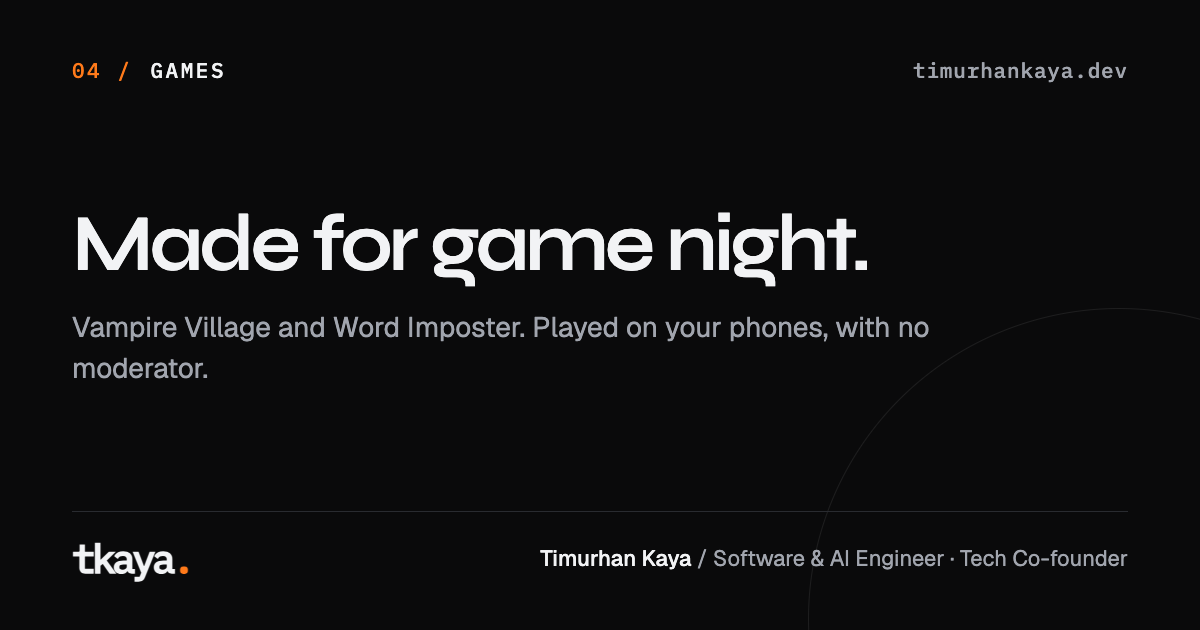
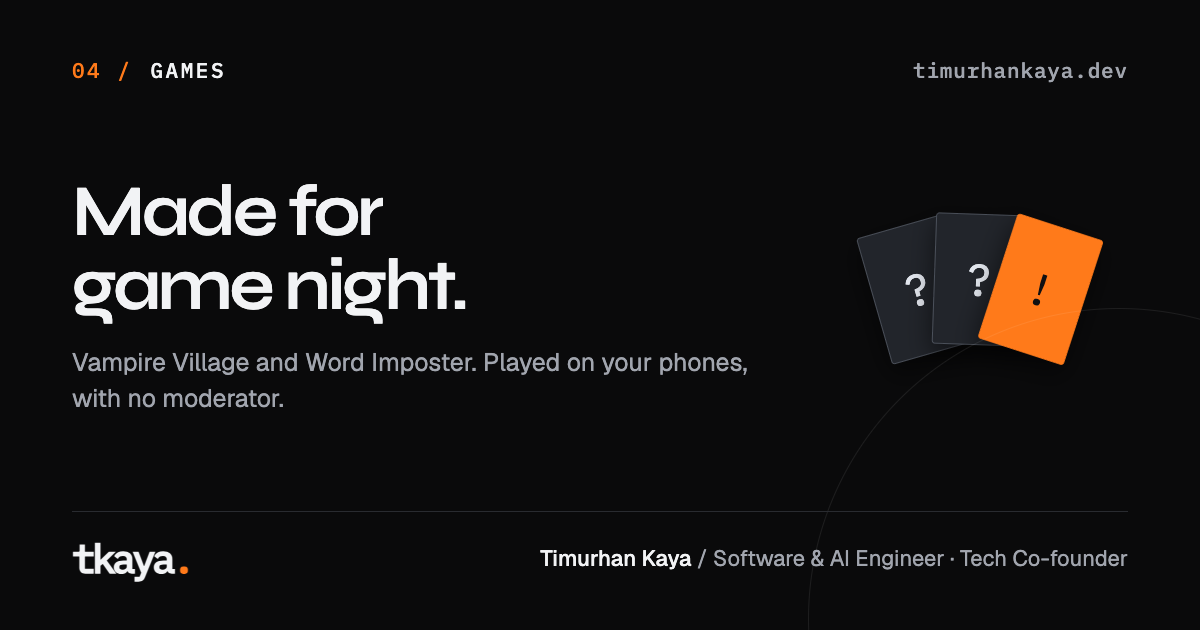
Polish portfolio cards and game share images

Changed region(s): [[0.0617, 0.2714, 0.925, 0.6635]]

diff --git a/resources/og/card.html b/resources/og/card.html
@@ -26,6 +26,19 @@ html, body { width: 1200px; height: 630px; overflow: hidden; background: var(--p
 .logo span { color: var(--accent); }
 .byline { font: 400 22px/1 'Geist', sans-serif; color: var(--muted); }
 .byline strong { color: var(--ink); font-weight: 500; }
+.card[data-game] .middle { max-width: 690px; position: relative; z-index: 1; }
+.card[data-game] .title { font-size: 72px; }
+.card[data-game] .subtitle { font-size: 25px; }
+.game-art { position: absolute; right: 70px; top: 175px; width: 310px; height: 250px; }
+.fan-card { position: absolute; top: 32px; left: 105px; width: 110px; height: 160px; display: grid; place-items: center; border: 1px solid #555b66; background: #22252b; color: #e4e8ef; border-radius: 4px; font: 54px/1 'IBM Plex Mono', monospace; box-shadow: 0 12px 30px #0008; }
+.fan-card:nth-child(1) { transform: translateX(-75px) rotate(-16deg); }
+.fan-card:nth-child(2) { transform: translateY(-12px) rotate(2deg); }
+.fan-card:nth-child(3) { transform: translateX(75px) rotate(18deg); background: var(--accent); color: #101012; border-color: var(--accent); }
+.night-art { overflow: hidden; border: 1px solid #292b30; background: radial-gradient(120% 70% at 50% 118%, #7a0f1d, #2a0810 38%, transparent 70%), #08090c; }
+.night-art::before { content: ""; position: absolute; top: 35px; right: 52px; width: 95px; height: 95px; border-radius: 50%; box-shadow: -23px 13px 0 #c9d4ea; transform: rotate(-14deg); }
+.night-art::after { content: "✦     ✦"; position: absolute; top: 50px; left: 45px; color: #c9d4ea; font-size: 20px; letter-spacing: 25px; }
+.night-village { position: absolute; bottom: 0; width: 100%; height: 70px; fill: #050506; }
+.card[data-game="games"] .game-art { transform: scale(.82); transform-origin: center; }
 </style>
 </head>
 <body>
@@ -39,6 +52,18 @@ html, body { width: 1200px; height: 630px; overflow: hidden; background: var(--p
 window.render = async (card) => {
     // The language decides capitals: Turkish uppercases i to İ.
     document.documentElement.lang = card.lang;
+    const surface = document.querySelector('.card');
+    surface.removeAttribute('data-game');
+    surface.querySelector('.game-art')?.remove();
+    if (['games', 'imposter', 'vampire'].includes(card.kind)) {
+        surface.dataset.game = card.kind;
+        const art = document.createElement('div');
+        art.className = 'game-art' + (card.kind === 'vampire' ? ' night-art' : '');
+        art.innerHTML = card.kind === 'vampire'
+            ? '<svg class="night-village" viewBox="0 0 320 64" preserveAspectRatio="none"><path d="M0 64V44h22V30l14-12 14 12v14h18V36l10-8 10 8v8h26V22l18-16 18 16v22h20V34l12-10 12 10v10h22V28l16-14 16 14v16h24V38l9-7 9 7v6h20v20Z"/></svg>'
+            : '<span class="fan-card">?</span><span class="fan-card">?</span><span class="fan-card">!</span>';
+        surface.append(art);
+    }
     const number = document.querySelector('.label b');
     number.textContent = card.number ? card.number + ' /' : '';
     number.hidden = !card.number;

diff --git a/resources/css/brand.css b/resources/css/brand.css
@@ -99,8 +99,15 @@
 .brand-display { text-wrap: balance; font-family: var(--heading); font-weight: 500; font-size: clamp(36px, 4.8vw, 60px); line-height: 1.08; letter-spacing: -.055em; margin-top: 24px; }
 .brand-project-grid { display: grid; grid-template-columns: repeat(3, minmax(0, 1fr)); gap: 25px; }
 /* Cards in a row share their height; the description absorbs the difference so the rules below line up. */
-.brand-project { min-width: 0; display: flex; flex-direction: column; }
+.brand-project { min-width: 0; display: flex; flex-direction: column; position: relative; }
+.brand-project-link::after { content: ""; position: absolute; inset: 0; z-index: 2; }
+.brand-project-link { transition: color .2s; }
+.brand-project:has(.brand-project-link):hover .brand-project-link, .brand-project-link:focus-visible { color: var(--accent); }
+.brand-project-actions, .brand-project-visit { position: relative; z-index: 3; }
 .brand-project-art { background-image: linear-gradient(90deg, transparent 49.7%, #ffffff05 50%, transparent 50.3%); height: 260px; display: flex; flex-direction: column; justify-content: space-between; padding: 22px; overflow: hidden; position: relative; }
+.brand-project-art.has-image { padding: 0; background: #151820; }
+.brand-project-art.has-image img { width: 100%; height: 100%; object-fit: contain; }
+.brand-project-art.has-image::after { display: none; }
 .brand-project-art-1 { background: #ff7a1a; color: #101012; }
 .brand-project-art-2 { background: #20242b; color: #e2e5eb; }
 .brand-project-art-3 { background: #111214; color: #ff8c38; border: 1px solid var(--line); }
@@ -282,8 +289,10 @@
     .brand-hero-intro { font-size: 16px; grid-column: 1; grid-row: 1; }
     .brand-emblem { grid-column: 2; grid-row: 1 / span 2; width: 65px; height: 65px; margin: 0; align-self: center; }
     .brand-hero-note .brand-text-link { justify-self: start; margin-top: 15px; }
-    .brand-hero-bottom { padding-block: 20px; }
+    .brand-hero-bottom { padding-block: 20px; flex-wrap: wrap; gap: 12px; }
     .brand-hero-bottom p { font-size: 11px; gap: 8px; }
+    .brand-hero-bottom p > span:last-child { white-space: nowrap; }
+    .brand-hero-bottom .brand-button { flex: none; white-space: nowrap; gap: 10px; }
     .brand-button { padding-inline: 14px; gap: 20px; font-size: 13px; }
     .brand-site { --section-space: 65px; }
     .brand-section-heading { display: block; margin-bottom: 25px; }

diff --git a/resources/views/components/brand-project.blade.php b/resources/views/components/brand-project.blade.php
@@ -1,16 +1,22 @@
 @props(['item', 'number' => 0, 'featured' => false])
 @php
     $dialogId = 'project-'.substr(sha1(data_get($item, 'name').$number), 0, 12);
+    $projectUrl = !data_get($item, 'archived', false) ? data_get($item, 'url') : null;
+    $projectImage = ['monafy' => 'images/projects/monafy-og.webp', 'transiyzi' => 'images/projects/transiyzi-og.png'][data_get($item, 'key')] ?? null;
 @endphp
 <article class="brand-project {{ $featured ? 'brand-project-featured' : '' }}">
     @if ($featured)
-        <div class="brand-project-art brand-project-art-{{ (($number - 1) % 3) + 1 }}" aria-hidden="true">
+        <div class="brand-project-art brand-project-art-{{ (($number - 1) % 3) + 1 }} {{ $projectImage ? 'has-image' : '' }}" aria-hidden="true">
+            @if ($projectImage)
+                <img src="{{ asset($projectImage) }}" alt="" width="1200" height="630" loading="lazy" decoding="async">
+            @else
             <span class="brand-project-art-label">{{ data_get($item, 'badge') }} / {{ data_get($item, 'year') }}</span>
             <span class="brand-project-word">{{ data_get($item, 'name') }}</span>
             <span class="brand-project-art-bottom"><span>TKAYA / {{ str_pad((string) $number, 2, '0', STR_PAD_LEFT) }}</span><span aria-hidden="true"><x-arrow /></span></span>
+            @endif
         </div>
     @endif
-    <div class="brand-project-heading"><h3>{{ data_get($item, 'name') }}</h3><span class="brand-label">{{ data_get($item, 'year') }}</span></div>
+    <div class="brand-project-heading"><h3>@if ($projectUrl)<a class="brand-project-link" href="{{ $projectUrl }}" target="_blank" rel="noopener noreferrer">{{ data_get($item, 'name') }}</a>@else{{ data_get($item, 'name') }}@endif</h3><span class="brand-label">{{ data_get($item, 'year') }}</span></div>
     <p class="brand-project-description">{{ data_get($item, 'description') }}</p>
     <div class="brand-project-actions">
         @if (data_get($item, 'highlights'))
@@ -23,9 +29,6 @@
             </dialog>
         @endif
     </div>
-    @if (data_get($item, 'url') && !data_get($item, 'archived', false))
-        <a class="brand-project-visit" href="{{ data_get($item, 'url') }}" target="_blank" rel="noopener noreferrer">{{ __('brand.visit') }} <span class="sr-only">— {{ data_get($item, 'name') }}</span><x-arrow /></a>
-    @endif
     @foreach ((array) data_get($item, 'links', []) as $link)
         <a class="brand-project-visit" href="{{ data_get($link, 'url') }}" target="_blank" rel="noopener noreferrer">{{ data_get($link, 'label') }} <x-arrow /></a>
     @endforeach

diff --git a/tests/Unit/ImposterRoomServiceTest.php b/tests/Unit/ImposterRoomServiceTest.php
@@ -1,9 +1,7 @@
 <?php
 
-use App\Enums\ImposterRoomStatus;
 use App\Services\Imposter\ImposterRoomService;
 use Illuminate\Support\Facades\Cache;
-use Illuminate\Support\Str;
 use Tests\TestCase;
 
 uses(TestCase::class);
@@ -13,7 +11,7 @@ beforeEach(function () {
 });
 
 afterEach(function () {
-    \Mockery::close();
+    Mockery::close();
 });
 
 function makeRoom(ImposterRoomService $rooms, string $host = 'Host', ?string $password = null): array
@@ -115,14 +113,13 @@ describe('createRoom', function () {
         $thrown = null;
         try {
             $rooms->createRoom('Gambler');
-        } catch (\Throwable $e) {
+        } catch (Throwable $e) {
             $thrown = $e;
         }
 
         expect($thrown)->toBeNull();
     });
 });
-
 
 // ─── getRoom ─────────────────────────────────────────────────────────────────
 
@@ -170,7 +167,7 @@ describe('joinRoom', function () {
         $rooms->startGame($created['code'], $created['hostPlayerId']);
 
         expect(fn () => $rooms->joinRoom($created['code'], 'Late'))
-            ->toThrow(\InvalidArgumentException::class, 'game_started');
+            ->toThrow(InvalidArgumentException::class, 'game_started');
     });
 
     it('throws InvalidArgumentException wrong_password when password is incorrect', function () {
@@ -178,7 +175,7 @@ describe('joinRoom', function () {
         $created = makeRoom($rooms, 'Host', 'correct');
 
         expect(fn () => $rooms->joinRoom($created['code'], 'Cheater', 'wrong'))
-            ->toThrow(\InvalidArgumentException::class, 'wrong_password');
+            ->toThrow(InvalidArgumentException::class, 'wrong_password');
     });
 
     it('succeeds with correct password', function () {

diff --git a/app/Enums/VampireRole.php b/app/Enums/VampireRole.php
@@ -4,31 +4,31 @@ namespace App\Enums;
 
 enum VampireRole: string
 {
-    case Vampire   = 'vampire';
-    case Villager  = 'villager';
-    case Doctor    = 'doctor';
+    case Vampire = 'vampire';
+    case Villager = 'villager';
+    case Doctor = 'doctor';
     case Detective = 'detective';
-    case Hunter    = 'hunter';
+    case Hunter = 'hunter';
 
     public function label(): string
     {
         return match ($this) {
-            self::Vampire   => 'Vampir',
-            self::Villager  => 'Köylü',
-            self::Doctor    => 'Doktor',
+            self::Vampire => 'Vampir',
+            self::Villager => 'Köylü',
+            self::Doctor => 'Doktor',
             self::Detective => 'Dedektif',
-            self::Hunter    => 'Avcı',
+            self::Hunter => 'Avcı',
         };
     }
 
     public function waitingTextKey(): string
     {
         return match ($this) {
-            self::Vampire   => 'vampire.atmosphere.role_waiting.vampire',
-            self::Villager  => 'vampire.atmosphere.role_waiting.villager',
-            self::Doctor    => 'vampire.atmosphere.role_waiting.doctor',
+            self::Vampire => 'vampire.atmosphere.role_waiting.vampire',
+            self::Villager => 'vampire.atmosphere.role_waiting.villager',
+            self::Doctor => 'vampire.atmosphere.role_waiting.doctor',
             self::Detective => 'vampire.atmosphere.role_waiting.detective',
-            self::Hunter    => 'vampire.atmosphere.role_waiting.hunter',
+            self::Hunter => 'vampire.atmosphere.role_waiting.hunter',
         };
     }
 

diff --git a/app/Enums/VampireRoomStatus.php b/app/Enums/VampireRoomStatus.php
@@ -27,16 +27,16 @@ enum VampireRoomStatus: string
     public function label(): string
     {
         return match ($this) {
-            self::Loading         => 'Yükleniyor',
-            self::Missing        => 'Bulunamadı',
-            self::Lobby           => 'Lobi',
-            self::Night           => 'Gece',
-            self::Dawn            => 'Şafak',
-            self::HunterLastShot  => 'Avcı Son Atış',
-            self::Day             => 'Gündüz',
-            self::DayVoting       => 'Gündüz - Oy',
-            self::DayResults      => 'Gündüz - Sonuç',
-            self::GameOver        => 'Oyun Bitti',
+            self::Loading => 'Yükleniyor',
+            self::Missing => 'Bulunamadı',
+            self::Lobby => 'Lobi',
+            self::Night => 'Gece',
+            self::Dawn => 'Şafak',
+            self::HunterLastShot => 'Avcı Son Atış',
+            self::Day => 'Gündüz',
+            self::DayVoting => 'Gündüz - Oy',
+            self::DayResults => 'Gündüz - Sonuç',
+            self::GameOver => 'Oyun Bitti',
         };
     }
 

diff --git a/lang/en/portfolio.php b/lang/en/portfolio.php
@@ -82,7 +82,7 @@ return [
                     'Building large-scale products and high-performance systems for millions of daily users',
                     'Architecting microservices and integrating complex APIs to power next-gen insurance and fintech experiences',
                     'Designing solid comparison and reservation systems that users can rely on every day',
-                    'Moving platforms forward on speed, scalability, and modern backend standards'
+                    'Moving platforms forward on speed, scalability, and modern backend standards',
                 ],
             ],
             [

diff --git a/resources/views/pages/home.blade.php b/resources/views/pages/home.blade.php
@@ -42,7 +42,7 @@
     <header id="home" class="brand-hero">
         <div class="brand-hero-top brand-label">
             <span>{{ __('brand.personal') }}</span>
-            <span>{{ __('brand.based') }} <x-arrow /></span>
+            <span>{{ __('brand.based') }}</span>
         </div>
         <div class="brand-hero-grid">
             <h1 class="brand-name">Timurhan<br><span>Kaya<span class="brand-period">.</span></span></h1>
